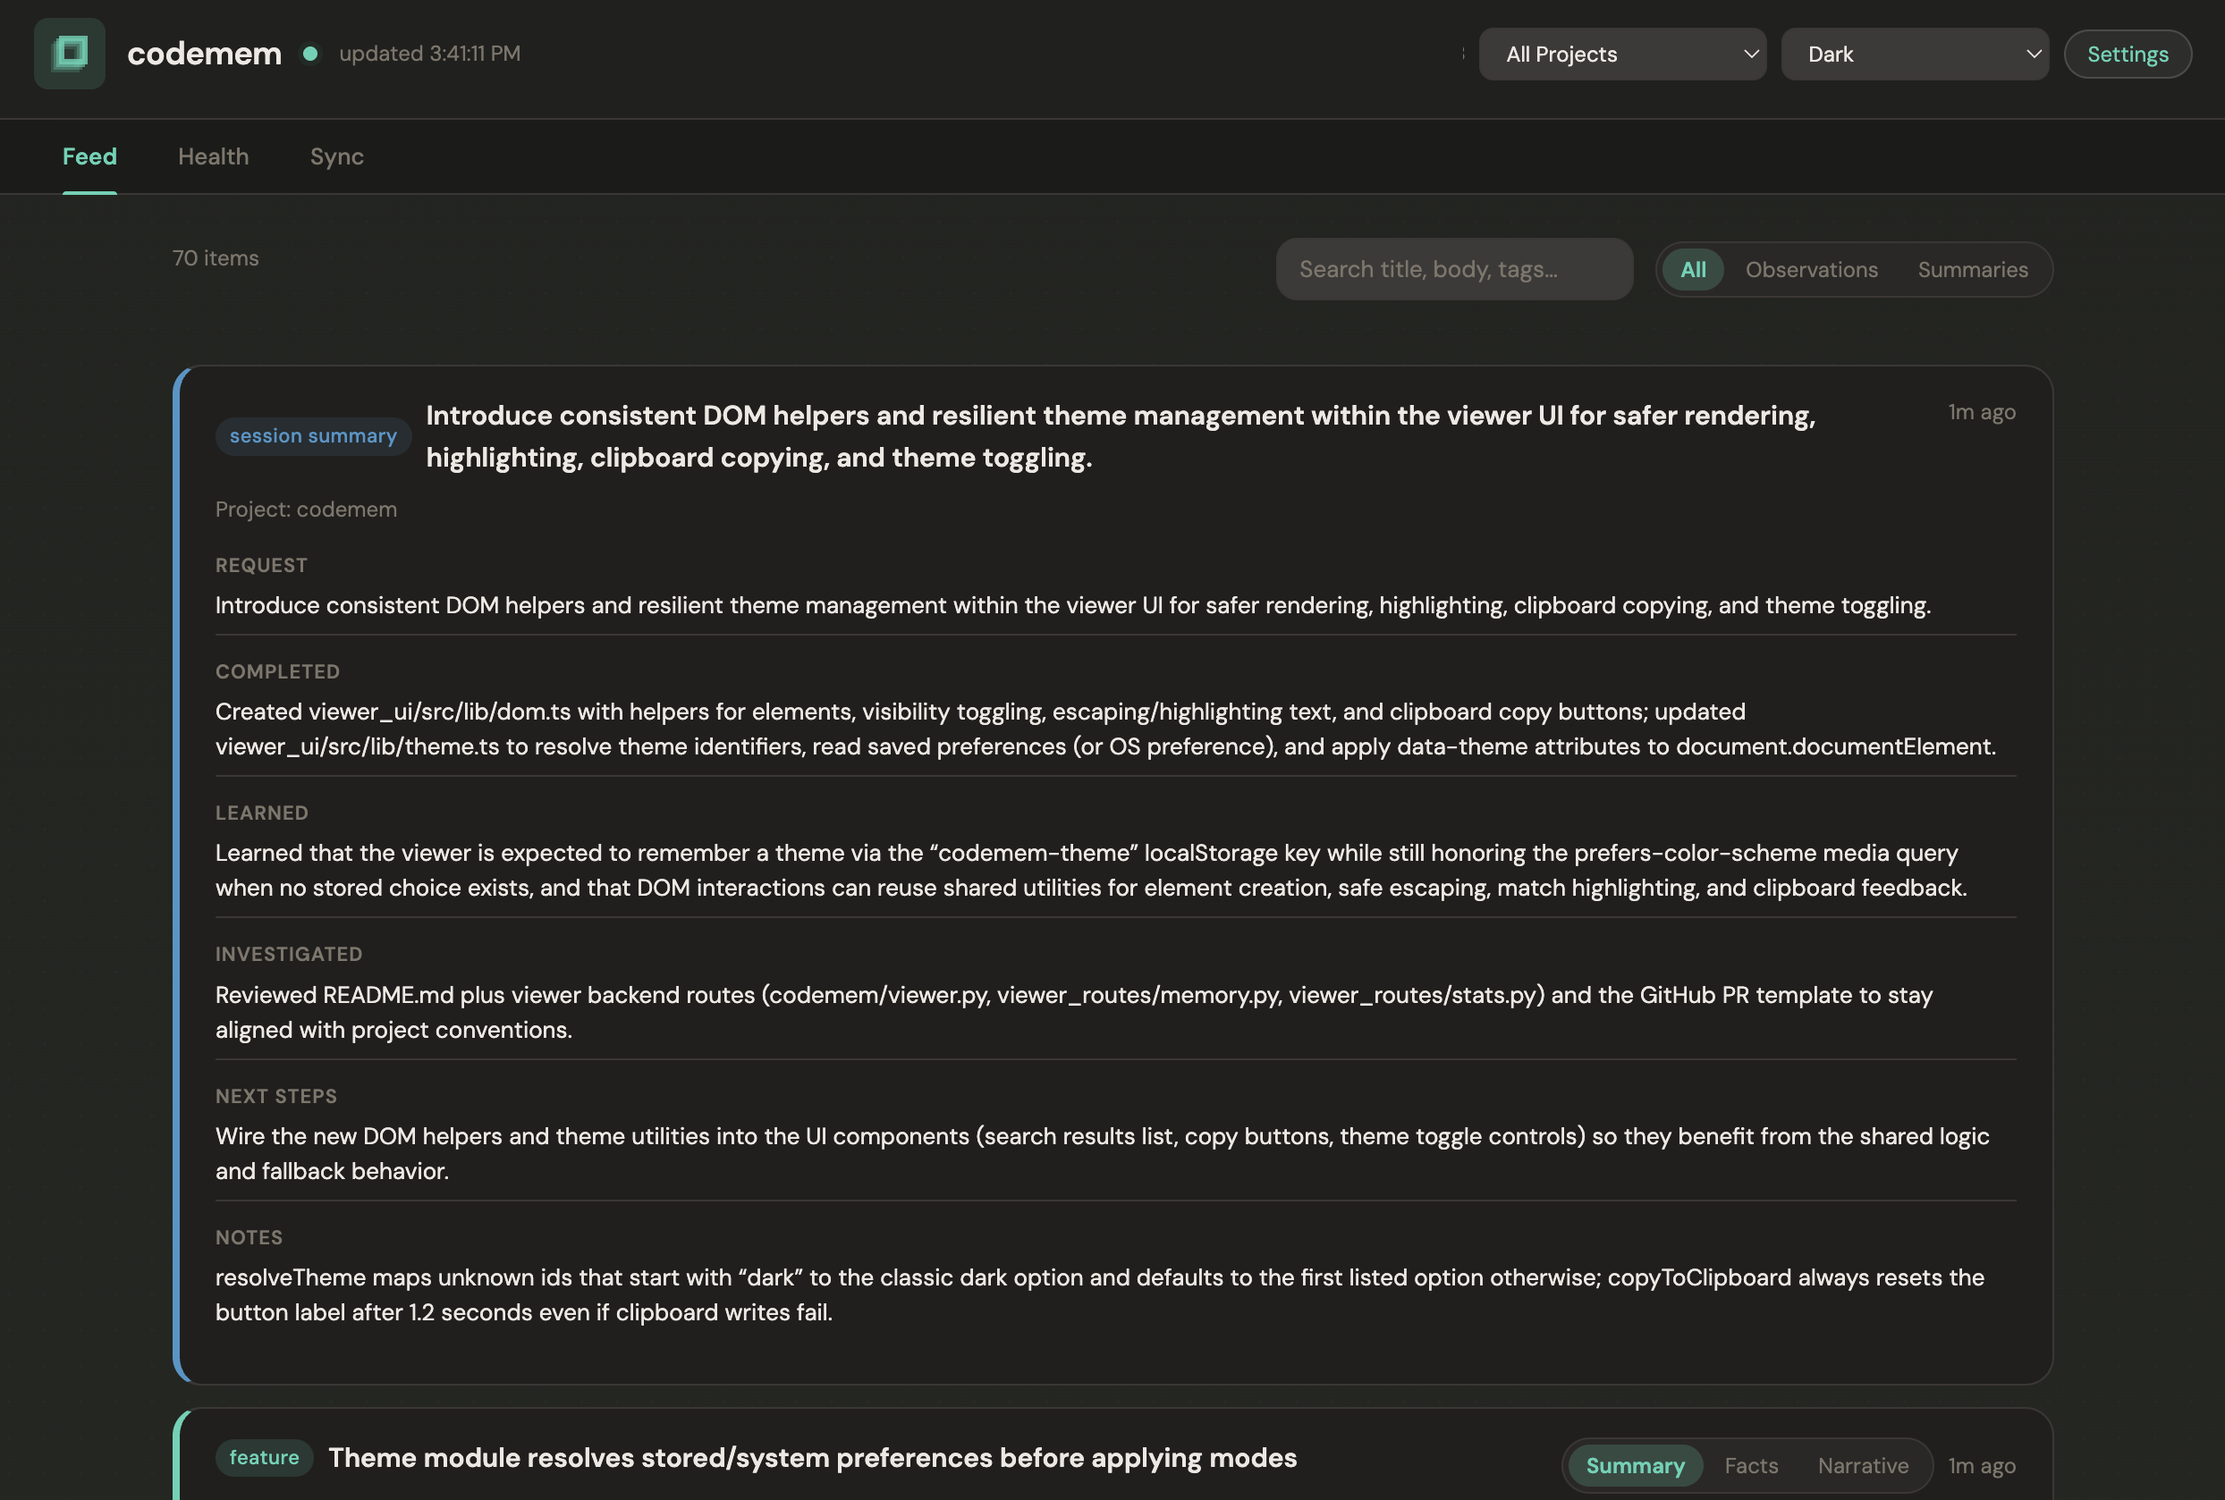
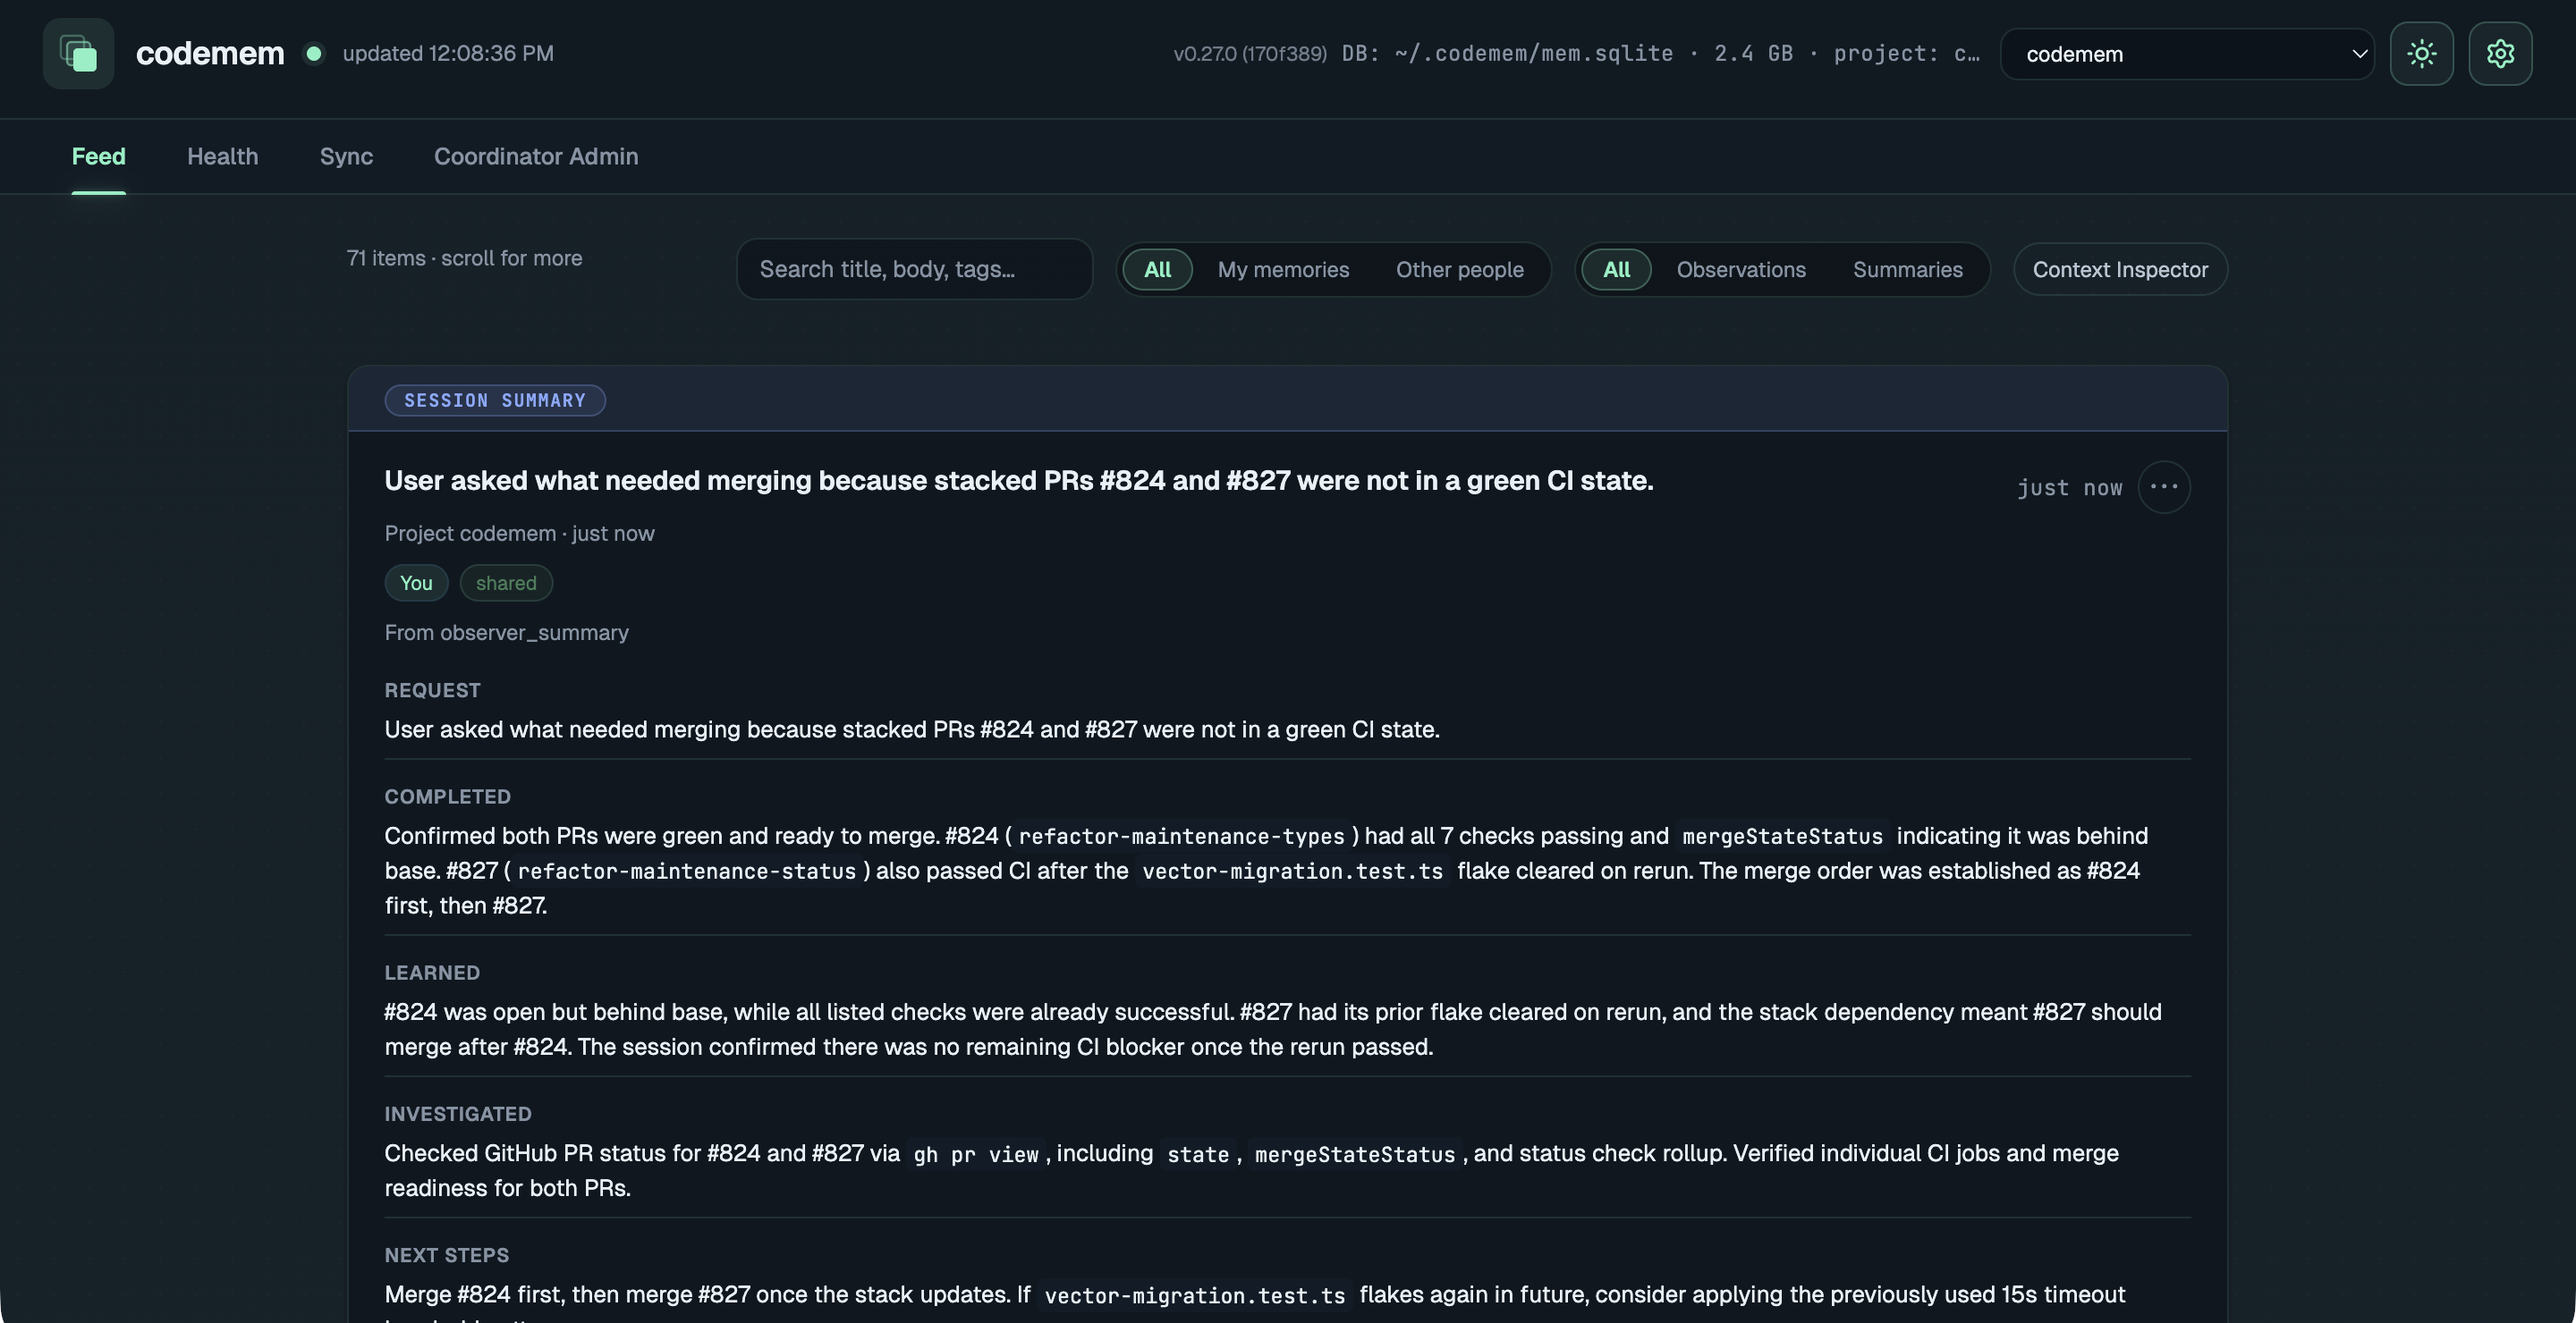
docs(readme): refresh viewer screenshots, use <picture> for theme swap
The Light/Dark two-column table cramped both images to ~50% column width, making them hard to read on GitHub's rendered README. Swap to a <picture> element with a prefers-color-scheme media source so viewers see a single full-width capture that adapts to their GitHub theme automatically.

Images also refreshed with new 2880×1480 captures of the viewer after the codemem design system rollout (Geist, mint accent, cascade mark). Captured at the codemem project scope to keep content tied to public repo work.

diff --git a/README.md b/README.md
@@ -11,9 +11,10 @@ Persistent memory for [OpenCode](https://opencode.ai) and [Claude Code](https://
 - **Built-in viewer** — browse memories, sessions, and observer output in a local web UI
 - **Peer-to-peer sync** — replicate memories across machines without a central service
 
-| Light | Dark |
-|-------|------|
-| ![codemem viewer – light theme](docs/images/codemem-light.png) | ![codemem viewer – dark theme](docs/images/codemem-dark.png) |
+<picture>
+  <source media="(prefers-color-scheme: dark)" srcset="docs/images/codemem-dark.png">
+  <img alt="codemem viewer — feed tab" src="docs/images/codemem-light.png">
+</picture>
 
 ## Quick start
 
